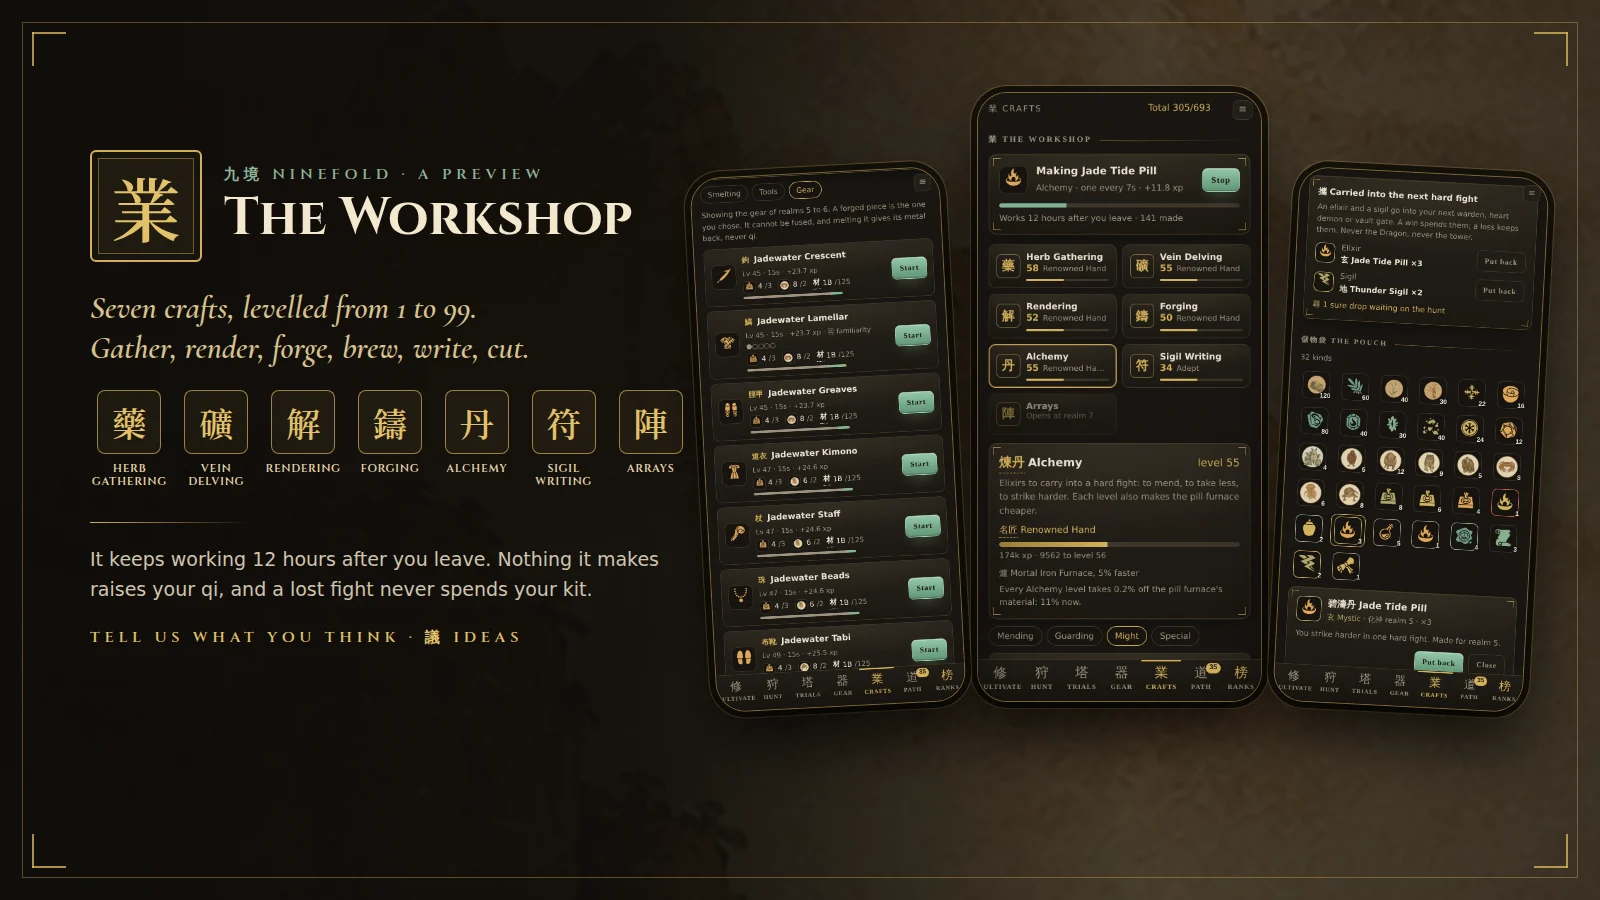
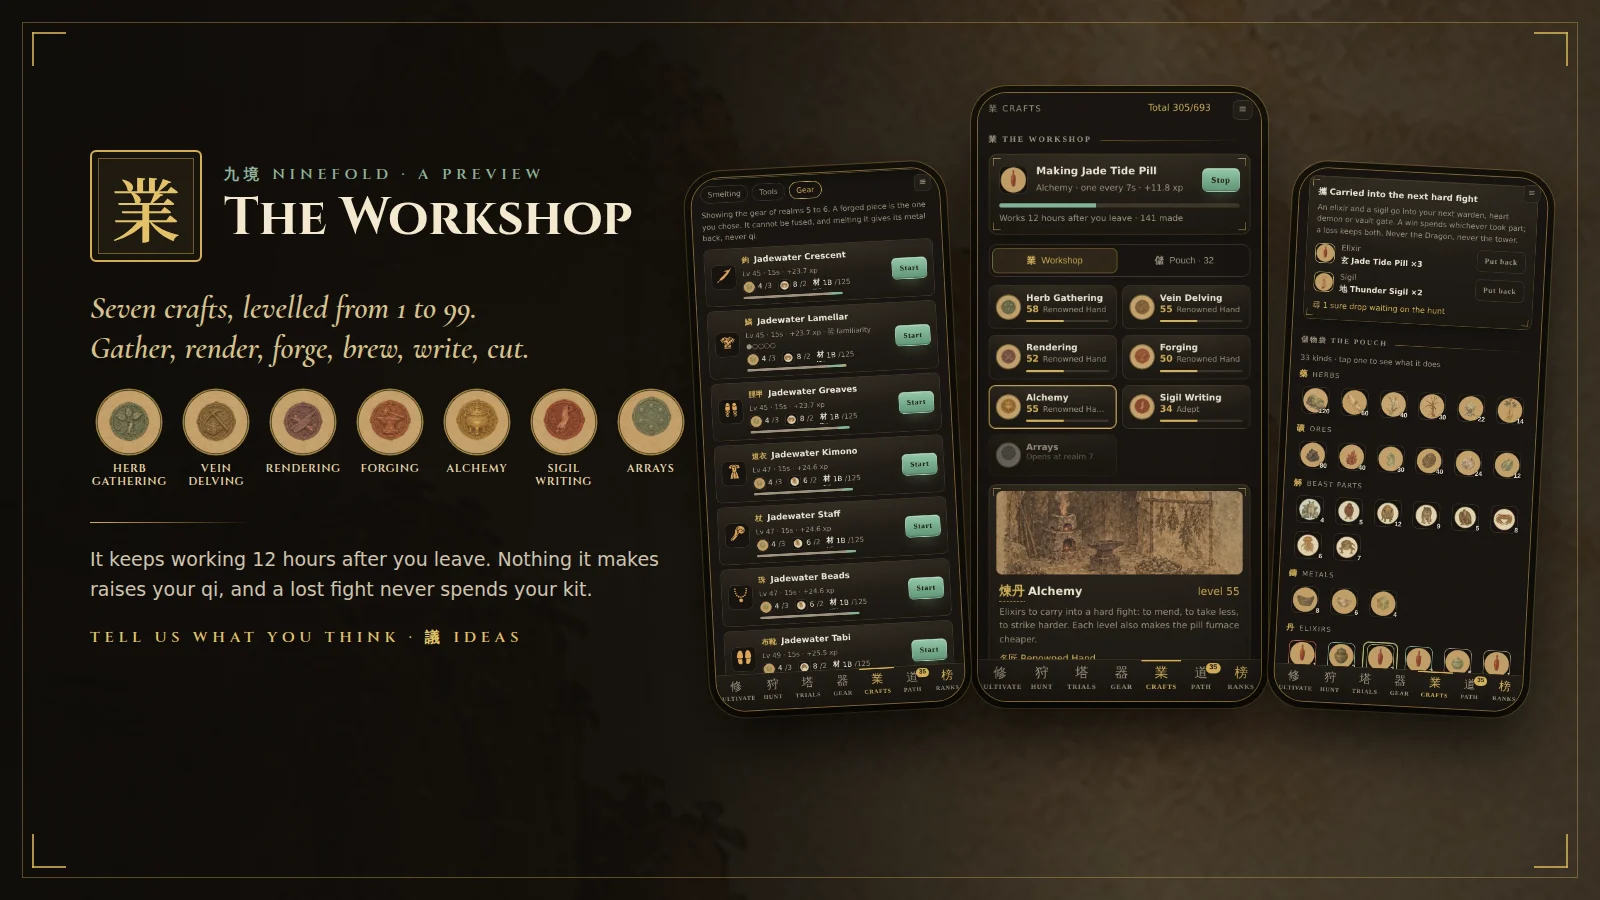
版 The pouch has its own view, and the workshop a stage and a dock on a PC
Bruno, testing on a PC: too much scrolling to reach the pouch, and no hints.
On a phone the workshop and the pouch are now two views behind a switch
under the task card, so neither sits under a long list of the other. The
pouch is shelved by kind (Herbs, Ores, Beast parts, Metals, Elixirs,
Sigils, Arrays), a carried thing is ringed in jade, a mouse shows each
thing's name, and the detail opens under the shelf it was tapped on.

On a wide screen the workshop takes the same stage and dock as cultivate
and gear: the crafts, their panel and the recipes (two across) on the
stage, what is carried and the pouch in the dock, each scrolling itself.

The dev log, the guide and the post pictures are brought up to date: the
paintings, the arena's spent or kept, the carry card's wording, and the
chart wears the painted seals. smoke and the post's screenshots use the
pouch switch.

Claude-Session: https://claude.ai/code/session_01AMHKBrurHARqGfuWpT85XW

diff --git a/src/app/screens/Crafts.tsx b/src/app/screens/Crafts.tsx
@@ -50,6 +50,8 @@ export function Crafts({ state, onTask, onCarry, onUse, onPlace }: {
   const [skill, setSkill] = useState<SkillKey>(running?.skill ?? first);
   const [group, setGroup] = useState<string | null>(null);
   const [looking, setLooking] = useState<string | null>(null);
+  const [view, setView] = useState<'work' | 'pouch'>('work');
+  const kinds = Object.keys(state.crafts.pouch).filter((k) => ITEM_BY_KEY[splitKey(k).key]).length;
 
   const open = skillOpen(state, skill);
   const level = levelIn(state, skill);
@@ -71,7 +73,8 @@ export function Crafts({ state, onTask, onCarry, onUse, onPlace }: {
   const tool = state.crafts.tools[skill] ?? 0;
 
   return (
-    <div className="crafts">
+    <div className="crafts" data-view={view}>
+      <div className="w-main">
       <div className="row">
         <span className="faint" style={{ fontSize: 12, letterSpacing: '.14em', textTransform: 'uppercase' }}>
           業 {CRAFTS.tab}
@@ -82,6 +85,16 @@ export function Crafts({ state, onTask, onCarry, onUse, onPlace }: {
       <h2 className="heading">{CRAFTS.head}</h2>
       <Task state={state} r={running} onStop={() => onTask(null)} />
 
+      {/* 版 On a phone the workshop and the pouch are two views of one screen, so neither
+          sits under a long list of the other. A wide screen shows both at once. */}
+      <div className="cswitch" role="tablist">
+        <button role="tab" aria-selected={view === 'work'} onClick={() => setView('work')}>
+          <b className="cjk">業</b> {CRAFTS.viewWork}</button>
+        <button role="tab" aria-selected={view === 'pouch'} onClick={() => setView('pouch')}>
+          <b className="cjk">儲</b> {CRAFTS.viewPouch(kinds)}</button>
+      </div>
+
+      <div className="w-work">
       <div className="cskills">
         {SKILLS.map((k) => {
           const on = skillOpen(state, k.key);
@@ -158,12 +171,15 @@ export function Crafts({ state, onTask, onCarry, onUse, onPlace }: {
           {later > 0 && <p className="faint" style={{ margin: '2px 0 0', fontSize: 12 }}>{CRAFTS.later(later)}</p>}
         </div>
       )}
+      </div>
+      </div>
 
-      <Carry state={state} onCarry={onCarry} />
-
-      <h2 className="heading">{CRAFTS.pouch}</h2>
-      <Pouch state={state} looking={looking} setLooking={setLooking}
-        onCarry={onCarry} onUse={onUse} onPlace={onPlace} />
+      <div className="w-side">
+        <Carry state={state} onCarry={onCarry} />
+        <h2 className="heading">{CRAFTS.pouch}</h2>
+        <Pouch state={state} looking={looking} setLooking={setLooking}
+          onCarry={onCarry} onUse={onUse} onPlace={onPlace} />
+      </div>
     </div>
   );
 }
@@ -405,56 +421,87 @@ function Pouch({ state, looking, setLooking, onCarry, onUse, onPlace }: {
     });
   if (keys.length === 0) return <p className="faint" style={{ fontSize: 12.5 }}>{CRAFTS.pouchEmpty}</p>;
   const look = looking && state.crafts.pouch[looking] ? looking : null;
-  const it = look ? ITEM_BY_KEY[splitKey(look).key] : null;
-  const q = look ? splitKey(look).quality : null;
-  const hand = look ? carrySlot(look) : null;
-  const seeking = look && (splitKey(look).key === 'sigil:seeking' || splitKey(look).key === 'seekincense');
+  const carried = new Set([state.crafts.carry.elixir, state.crafts.carry.sigil].filter(Boolean));
+  // 類 One shelf per kind, so a pouch of forty things reads as seven short rows, and the
+  // detail opens under the shelf it was tapped on instead of at the foot of all of them.
+  const shelves = KIND_ORDER.map((kind) => ({ kind, keys: keys.filter((k) => ITEM_BY_KEY[splitKey(k).key].kind === kind) }))
+    .filter((x) => x.keys.length > 0);
   return (
     <>
-      <p className="faint" style={{ margin: '0 0 8px', fontSize: 12 }}>{CRAFTS.kinds(keys.length)}</p>
-      <div className="cpouch">
-        {keys.map((k) => (
-          <button key={k} className="cpc" data-on={k === look} onClick={() => setLooking(k === look ? null : k)}
-            aria-label={ITEM_BY_KEY[splitKey(k).key].name}>
-            <Thing k={k} size={44} />
-            <b className="mono">{num(state.crafts.pouch[k])}</b>
-          </button>
-        ))}
-      </div>
-      {look && it && (
-        <div className="card clook">
-          <div className="row" style={{ gap: 10 }}>
-            <Thing k={look} size={40} />
-            <span style={{ flex: 1, minWidth: 0 }}>
-              <b><span className="cjk">{it.han}</span> {it.name}</b>
-              <i className="faint" style={{ display: 'block', fontStyle: 'normal', fontSize: 12 }}>
-                {q !== null && <span style={{ color: RARITY_INFO[RARITIES[q]].colour }}>{RARITY_INFO[RARITIES[q]].han} {RARITY_INFO[RARITIES[q]].name} · </span>}
-                {realmOf(it.realm).han} realm {it.realm} · ×{num(state.crafts.pouch[look])}
-              </i>
-            </span>
+      <p className="faint" style={{ margin: '0 0 6px', fontSize: 12 }}>{CRAFTS.kinds(keys.length)} · {CRAFTS.pouchTap}</p>
+      {shelves.map(({ kind, keys: here }) => (
+        <div key={kind} className="cshelf">
+          <p className="cshelf-h"><b className="cjk">{CRAFTS.kindHan[kind]}</b> {CRAFTS.kindName[kind]}</p>
+          <div className="cpouch">
+            {here.map((k) => {
+              const it = ITEM_BY_KEY[splitKey(k).key];
+              const q = splitKey(k).quality;
+              const tip = `${it.name}${q !== null ? ` · ${RARITY_INFO[RARITIES[q]].name}` : ''} · ×${num(state.crafts.pouch[k])}`;
+              return (
+                <button key={k} className="cpc" data-on={k === look} data-carried={carried.has(k)}
+                  onClick={() => setLooking(k === look ? null : k)} aria-label={tip} title={tip}>
+                  <Thing k={k} size={44} />
+                  <b className="mono">{num(state.crafts.pouch[k])}</b>
+                  <span className="cpc-tip" aria-hidden="true">{it.name}</span>
+                </button>
+              );
+            })}
           </div>
-          {it.does && <p className="faint" style={{ margin: '8px 0 0', fontSize: 12.5 }}>{it.does}</p>}
-          <div className="row" style={{ marginTop: 10, gap: 8, justifyContent: 'flex-end' }}>
-            {hand && state.crafts.carry[hand] !== look && (
-              <button className="act small" onClick={() => onCarry(hand, look)}>{CRAFTS.carry}</button>
-            )}
-            {hand && state.crafts.carry[hand] === look && (
-              <button className="act small" onClick={() => onCarry(hand, null)}>{CRAFTS.uncarry}</button>
-            )}
-            {seeking && (
-              <button className="act small" disabled={state.crafts.seek >= CRAFT_SEEK_MAX} onClick={() => onUse(look)}>{CRAFTS.use}</button>
-            )}
-            {it.kind === 'array' && skillOpen(state, 'array') && (
-              <button className="act small"
-                disabled={!placed(state, look.slice('array:'.length)) && state.crafts.arrays.length >= arraySlots(levelIn(state, 'array'))}
-                onClick={() => onPlace(look.slice('array:'.length), !placed(state, look.slice('array:'.length)))}>
-                {placed(state, look.slice('array:'.length)) ? CRAFTS.lift : CRAFTS.place}
-              </button>
-            )}
-            <button className="act small ghost" onClick={() => setLooking(null)}>{CRAFTS.close}</button>
-          </div>
+          {look && here.includes(look) && (
+            <Look state={state} look={look} onClose={() => setLooking(null)} onCarry={onCarry} onUse={onUse} onPlace={onPlace} />
+          )}
         </div>
-      )}
+      ))}
     </>
+  );
+}
+
+/** 看 One thing in the pouch, opened: what it is, what it does, and what can be done with it. */
+function Look({ state, look, onClose, onCarry, onUse, onPlace }: {
+  state: State;
+  look: string;
+  onClose: () => void;
+  onCarry: (hand: 'elixir' | 'sigil', key: string | null) => void;
+  onUse: (key: string) => void;
+  onPlace: (key: string, on: boolean) => void;
+}) {
+  const it = ITEM_BY_KEY[splitKey(look).key];
+  const q = splitKey(look).quality;
+  const hand = carrySlot(look);
+  const seeking = splitKey(look).key === 'sigil:seeking' || splitKey(look).key === 'seekincense';
+  const arrayKey = look.slice('array:'.length);
+  return (
+    <div className="card clook">
+      <div className="row" style={{ gap: 10 }}>
+        <Thing k={look} size={40} />
+        <span style={{ flex: 1, minWidth: 0 }}>
+          <b><span className="cjk">{it.han}</span> {it.name}</b>
+          <i className="faint" style={{ display: 'block', fontStyle: 'normal', fontSize: 12 }}>
+            {q !== null && <span style={{ color: RARITY_INFO[RARITIES[q]].colour }}>{RARITY_INFO[RARITIES[q]].han} {RARITY_INFO[RARITIES[q]].name} · </span>}
+            {realmOf(it.realm).han} realm {it.realm} · ×{num(state.crafts.pouch[look])}
+          </i>
+        </span>
+      </div>
+      {it.does && <p className="faint" style={{ margin: '8px 0 0', fontSize: 12.5 }}>{it.does}</p>}
+      <div className="row" style={{ marginTop: 10, gap: 8, justifyContent: 'flex-end' }}>
+        {hand && state.crafts.carry[hand] !== look && (
+          <button className="act small" onClick={() => onCarry(hand, look)}>{CRAFTS.carry}</button>
+        )}
+        {hand && state.crafts.carry[hand] === look && (
+          <button className="act small" onClick={() => onCarry(hand, null)}>{CRAFTS.uncarry}</button>
+        )}
+        {seeking && (
+          <button className="act small" disabled={state.crafts.seek >= CRAFT_SEEK_MAX} onClick={() => onUse(look)}>{CRAFTS.use}</button>
+        )}
+        {it.kind === 'array' && skillOpen(state, 'array') && (
+          <button className="act small"
+            disabled={!placed(state, arrayKey) && state.crafts.arrays.length >= arraySlots(levelIn(state, 'array'))}
+            onClick={() => onPlace(arrayKey, !placed(state, arrayKey))}>
+            {placed(state, arrayKey) ? CRAFTS.lift : CRAFTS.place}
+          </button>
+        )}
+        <button className="act small ghost" onClick={onClose}>{CRAFTS.close}</button>
+      </div>
+    </div>
   );
 }

diff --git a/src/app/theme.css b/src/app/theme.css
@@ -2990,7 +2990,7 @@ nav.tabs button:active:not([data-shut='true']) { transform: scale(.93); }
 .crafts .cprog[data-wait='true'] > i { background: var(--faint); }
 
 .crafts .cskills { display: grid; grid-template-columns: repeat(2, minmax(0, 1fr)); gap: 8px; margin-bottom: 12px; }
-.crafts > .row:first-child { padding-right: 56px; }
+.crafts .w-main > .row:first-child { padding-right: 56px; }
 .crafts .cskill { display: grid; grid-template-columns: 34px minmax(0, 1fr); grid-template-rows: auto auto auto;
                   column-gap: 8px; align-items: center; text-align: left; font: inherit; color: var(--text); cursor: pointer;
                   background: var(--lacquer); border: 1px solid var(--line); border-radius: 10px; padding: 9px 10px; }
@@ -3008,6 +3008,30 @@ nav.tabs button:active:not([data-shut='true']) { transform: scale(.93); }
                       filter: saturate(.92) brightness(.92); }
 .crafts .ctool { display: inline-block; vertical-align: -5px; margin-right: 4px; }
 .crafts .ctool img.emblem { border-radius: 50%; }
+.crafts .w-main, .crafts .w-work, .crafts .w-side { display: contents; }
+.crafts[data-view='work'] .w-side { display: none; }
+.crafts[data-view='pouch'] .w-work { display: none; }
+.crafts .cswitch { display: grid; grid-template-columns: 1fr 1fr; gap: 6px; margin: 0 0 12px; padding: 4px;
+                   border: 1px solid var(--line); border-radius: 12px; background: rgba(20, 17, 13, .6); }
+.crafts .cswitch button { padding: 9px 8px; border-radius: 9px; font-size: 13px; color: var(--faint); background: none; border: 0; }
+.crafts .cswitch button[aria-selected='true'] { color: var(--gold); background: rgba(212, 175, 86, .12);
+                                               box-shadow: inset 0 0 0 1px var(--gild-strong); }
+.crafts .cswitch b.cjk { margin-right: 4px; }
+.crafts .cshelf { margin-bottom: 10px; }
+.crafts .cshelf-h { margin: 0 0 6px; font-size: 11px; letter-spacing: .14em; text-transform: uppercase; color: var(--faint); }
+.crafts .cshelf-h b.cjk { color: var(--gold); letter-spacing: 0; margin-right: 3px; font-size: 13px; }
+.crafts .cpc[data-carried='true'] { box-shadow: inset 0 0 0 1px var(--jade); }
+.crafts .cpc { position: relative; }
+.crafts .cpc-tip { display: none; }
+@media (hover: hover) {
+  /* 註 On a mouse, the name above the cell. It sits inside the cell's own box and is only
+     ever as wide as the name, so it cannot be dragged off the screen the way a centred,
+     translated note can (see CLAUDE.md, the tooltip that was clamped). */
+  .crafts .cpc:hover .cpc-tip { display: block; position: absolute; left: 0; bottom: calc(100% + 4px); z-index: 3;
+    white-space: nowrap; padding: 4px 7px; border-radius: 6px; font-size: 11.5px; color: var(--text);
+    background: rgba(15, 12, 9, .96); border: 1px solid var(--gild-strong); pointer-events: none; }
+  .crafts .cpouch .cpc:nth-child(n+4):hover .cpc-tip { left: auto; right: 0; }
+}
 .crafts .cskill .cs-name { font-size: 12.5px; font-weight: 600; min-width: 0; line-height: 1.2; }
 .crafts .cskill .cs-sub { font-size: 11px; color: var(--faint); white-space: nowrap; overflow: hidden; text-overflow: ellipsis; }
 .crafts .cskill .cs-sub em { font-style: normal; font-size: 13px; font-weight: 600; color: var(--gold); margin-right: 2px; }
@@ -3053,3 +3077,34 @@ nav.tabs button:active:not([data-shut='true']) { transform: scale(.93); }
 .crafts .cpc[data-on='true'] { border-color: var(--gold); }
 .crafts .cpc b { position: absolute; right: 4px; bottom: 2px; font-size: 10.5px; color: var(--text);
                  text-shadow: 0 1px 2px #000, 0 0 4px #000; }
+
+/* 業 The workshop on a wide screen: the crafts on the stage, the pouch in the dock.
+   The same stage and dock as 修 and 器, so the three read as one game: the things you
+   work on in the middle, the things you hold down the right edge, each scrolling itself.
+   Two views on a phone become both at once here, so the switch goes. */
+@media (min-width: 1100px) {
+  .app > .sheet[data-screen='crafts'] { overflow: hidden; padding: 0; position: relative; display: block; }
+  .sheet[data-screen='crafts'] > .crafts { height: 100%; display: grid;
+    grid-template-columns: minmax(0, 1fr) var(--dock); grid-template-rows: minmax(0, 1fr); }
+  .sheet[data-screen='crafts']::before { content: ''; position: absolute; top: 0; bottom: 0; right: 0; width: var(--dock);
+    background: rgba(20, 17, 13, .84); border-left: 1px solid var(--line); backdrop-filter: blur(6px); }
+  .crafts .w-main { display: block; grid-column: 1; min-width: 0; min-height: 0; overflow-y: auto;
+    scrollbar-width: thin; scrollbar-color: var(--line) transparent;
+    padding: 36px max(40px, calc((100% - 880px) / 2)) 48px; }
+  .crafts .w-side { display: block !important; grid-column: 2; min-width: 0; min-height: 0; overflow-y: auto; position: relative;
+    scrollbar-width: thin; scrollbar-color: var(--line) transparent; padding: 32px 28px 48px; }
+  .crafts .w-work { display: block !important; }
+  .crafts .w-main > .row:first-child { padding-right: 0; }
+  .crafts .cswitch { display: none; }
+  /* Seven crafts in one row of four and one of three, and the recipes two across. */
+  .crafts .cskills { grid-template-columns: repeat(4, minmax(0, 1fr)); }
+  .crafts .crecipes { display: grid; grid-template-columns: repeat(auto-fill, minmax(330px, 1fr)); gap: 10px; align-items: start; }
+  .crafts .crecipes > p { grid-column: 1 / -1; }
+  .crafts .cscene { height: 150px; }
+  .crafts .w-side .cpouch { grid-template-columns: repeat(auto-fill, minmax(52px, 1fr)); }
+}
+/* A laptop's stage holds four tiles only if the rank waits for the panel below. */
+@media (min-width: 1100px) and (max-width: 1599px) {
+  .crafts .cskill .cs-rank { display: none; }
+  .crafts .cscene { height: 120px; }
+}

diff --git a/src/app/copy.ts b/src/app/copy.ts
@@ -1625,8 +1625,15 @@ export const CRAFTS = {
   pouch: '儲物袋 The pouch',
   pouchEmpty: 'Nothing yet. What the workshop gathers and makes lands here.',
   kinds: (n: number) => `${n} kinds`,
+  pouchTap: 'tap one to see what it does',
+  // 類 The pouch's shelves: English first, the character beside it.
+  kindName: { herb: 'Herbs', ore: 'Ores', part: 'Beast parts', metal: 'Metals', elixir: 'Elixirs', sigil: 'Sigils', array: 'Arrays' } as Record<string, string>,
+  kindHan: { herb: '藥', ore: '礦', part: '解', metal: '鑄', elixir: '丹', sigil: '符', array: '陣' } as Record<string, string>,
+  // 版 The workshop and the pouch are two views on a phone and side by side on a wide screen.
+  viewWork: 'Workshop',
+  viewPouch: (n: number) => `Pouch · ${n}`,
   carryHead: '攜 Carried into the next hard fight',
-  carrySays: 'An elixir and a sigil go into your next warden, heart demon or vault gate. A win spends them; a loss keeps them. Never the Dragon, never the tower.',
+  carrySays: 'An elixir and a sigil go into your next warden, heart demon or vault gate. A win spends whichever took part; a loss keeps both. Never the Dragon, never the tower.',
   carryElixir: 'Elixir',
   carrySigil: 'Sigil',
   carryNone: 'Nothing',

diff --git a/docs/devlog-next.md b/docs/devlog-next.md
@@ -18,7 +18,9 @@ banners) are committed with them, so Pages serves them before Discord first asks
 | Change | Player-facing | Status |
 |---|---|---|
 | 圍 Drive priced in minutes of your own gathering, old beasts a quarter | yes | ready, measured, tested |
-| 業 The Workshop: seven crafts 1 to 99 (realm 2, 丹 5, 符 6, 陣 7) | yes | ready, measured, tested; painted art waits for Bruno's 11 sheets |
+| 業 The Workshop: seven crafts 1 to 99 (realm 2, 丹 5, 符 6, 陣 7), painted | yes | ready, measured, tested, reviewed |
+| 版 Workshop layout: pouch as its own view on a phone, crafts and pouch side by side on a PC | yes | ready, shot at 320, 400, 1366 and 1920 |
+| 攜 The arena says whether a kit was spent or kept; odds on the cards count the kit | yes | ready, played by `npm run workshop` |
 | 郵 Sign-in email carries a 6-digit code | yes, once live | waits for the mail service (`SMTP_PASS`, `SMTP_SENDER`); do not announce before |
 | 答 The bot answers testers' posts by name | no | already used from the branch |
 
